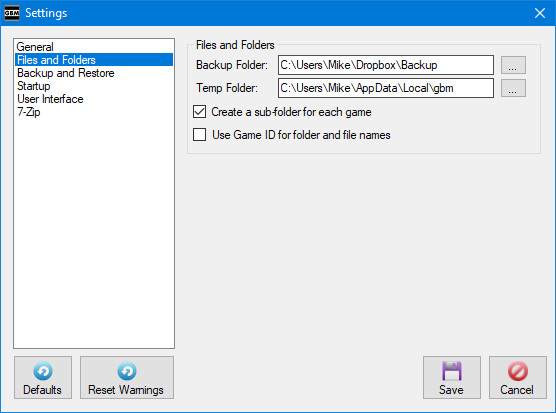
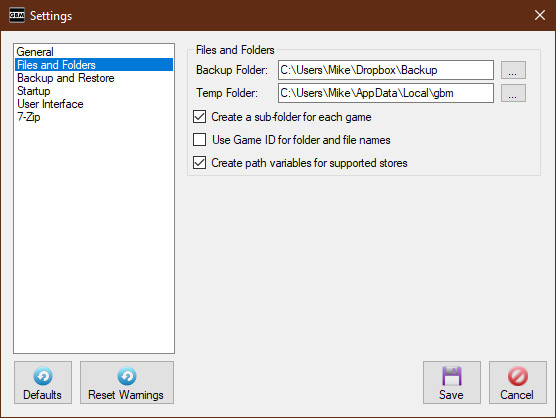
Added new setting to manual

diff --git a/manual.html b/manual.html
@@ -33,7 +33,7 @@
             Game Backup Monitor v1.3.1 Manual
           </div>
           <div class="pageSectionContent">
-            <h3 class="notop">Updated May 14, 2022</h3>
+            <h3 class="notop">Updated May 22, 2022</h3>
             <h3>Important Notes:</h3>
             <p>An offline version of the manual is available <a href="https://github.com/Darthagnon/gbm-manual">here</a>.  The offline manual is kindly provided by <a href="https://github.com/Darthagnon">Darthagnon</a>.</p>
             <p>This manual may contain information about features not available in the current stable release.</p>
@@ -210,7 +210,7 @@
             <h4>Autosave log when max length is exceeded:</h4>
             <p>This will automatically save a copy of the session log each time it's automatically cleared.</p>            
             <h3>Files and Folders</h3>
-            <img class="manual" src="images/manual/manual_17.jpg" width="556" height="413" alt="Settings" />
+            <img class="manual" src="images/manual/manual_17.jpg" width="556" height="418" alt="Settings" />
             <h4>Backup Folder:</h4>
             <p>This is the backup folder where GBM stores all game backups and it's remote database.</p>
             <h4>Temp Folder:</h4>
@@ -219,6 +219,8 @@
             <p>This indicates if you want GBM to create a sub-folder in the backup folder for each game. This is handy for keeping your backup folder more organized.</p>
             <h4>Use Game ID for folder and file names:</h4>
             <p>GBM uses the game Name by default for folder and files names.  After enabling this setting GBM will use the game ID instead.</p>
+            <h4>Create path variables for supported stores:</h4>
+            <p>This indicates if you want GBM to automatically create path variables for store specific locations, such as Steam Cloud.  See the <a href="#storevariables">Preconfigured Store Variables</a> section for more details.</p>
             <h3>Backup and Restore</h3>
             <img class="manual" src="images/manual/manual_33.jpg" width="556" height="413" alt="Settings" />
             <h4>Display notifications about new backups:</h4>
@@ -845,8 +847,9 @@
           <div class="pageSectionContent">
             <p>On startup, GBM attempts to automatically create custom path variables to support cloud save locations of popular stores.  Currently only Steam is supported.
               <ul>
+                <li>You can disable this feature in the "Files & Folders" section of the Settings window by deselecting "Create path variables for supported stores".</li>
                 <li>You can edit these variables if GBM detected them incorrectly.</li>
-                <li>If you rename or delete these variables, GBM will restore them the next time it starts.</li>
+                <li>If you rename or delete these variables, GBM will restore them the next time it starts if the feature is still enabled.</li>
               </ul>
             </p>
             <p>If you've previously setup your own stores variables, GBM may automatically rename or duplicate them.</p>
